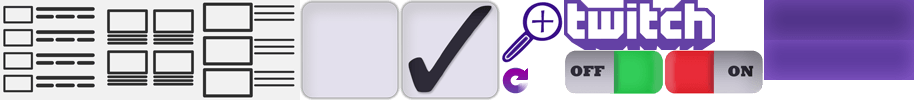
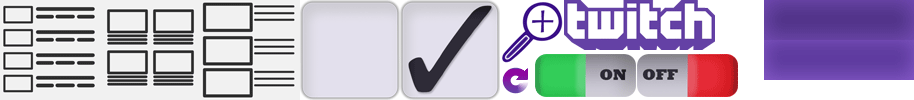
Fixed options section
On and Off statements now more understandable

Changed region(s): [[0.5821, 0.48, 0.8578, 0.99]]

diff --git a/Code/css/style.css b/Code/css/style.css
@@ -128,7 +128,7 @@ button {
     position: fixed;
 	z-index: 10;
 	width: 265px;
-    top: 88px;
+    top: 24px;
 	left: 200px;
     padding: 15px 15px 0 15px;
 	background: -webkit-gradient(linear, left top, left bottom, from(rgba(39, 39, 39, 1)), to(rgba(87, 87, 87, 1)));
@@ -263,7 +263,7 @@ button.button:hover {
 }
 
 .selected {
-    border: 5px rgb(163, 163, 163) solid;
+    border: 5px rgb(140, 100, 213) solid;
     margin: 0 10px -6px 10px !important;
 }
 .style {
@@ -327,13 +327,14 @@ button.button:hover {
 }
 
 #ChgUsrInt {
-	max-width: 45px;
+	max-width: 52px;
     min-width: 15px;
 	font-size: 27px;
 	border-color: rgba(0, 0, 0, 0);
 	color: white;
 	background: none;
 	padding: 0 8 0 8;
+	text-align: center;
 }
 
 #insertContentHere {
@@ -350,24 +351,28 @@ button.button:hover {
     outline: none;
 }
 
+.Check_Box:disabled, .Check_Box_2:disabled {
+	box-shadow: inset 0 0 0 1000px rgba(0,0,0,.4);
+}
+
 .Check_Box {
-    background: url(/img/img.png) no-repeat -334px -25px;
-    background-size: 460!important;
+    background: url(/img/Check_Box.png) no-repeat 0 -22px;
+    background-size: 50!important;
     width: 50px;
 }
 
 .Check_Box:checked {
-    background: url(/img/img.png) no-repeat -284px -25px;
+    background: url(/img/Check_Box.png) no-repeat 0 0;
 }
 
 .Check_Box_2 {
-    background: url(/img/img.png) no-repeat -69px 0;
-    background-size: 206!important;
+    background: url(/img/Check_Box_2.png) no-repeat 0 -22px;
+    background-size: 22!important;
     width: 22px;
 }
 
 .Check_Box_2:checked {
-    background: url(/img/img.png) no-repeat -91px 0;
+    background: url(/img/Check_Box_2.png) no-repeat 0 0;
 }
 
 #fndAbug {
